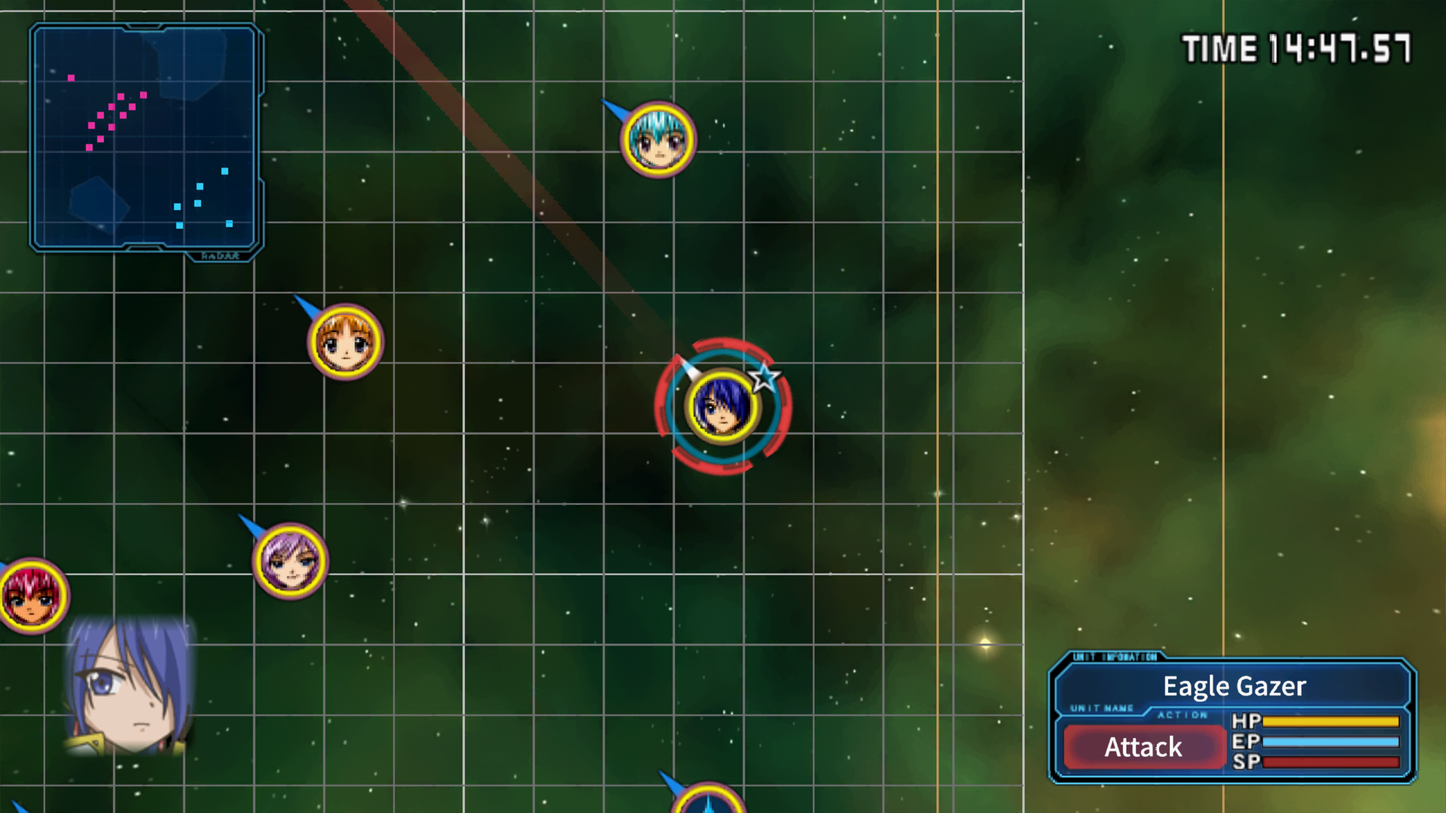
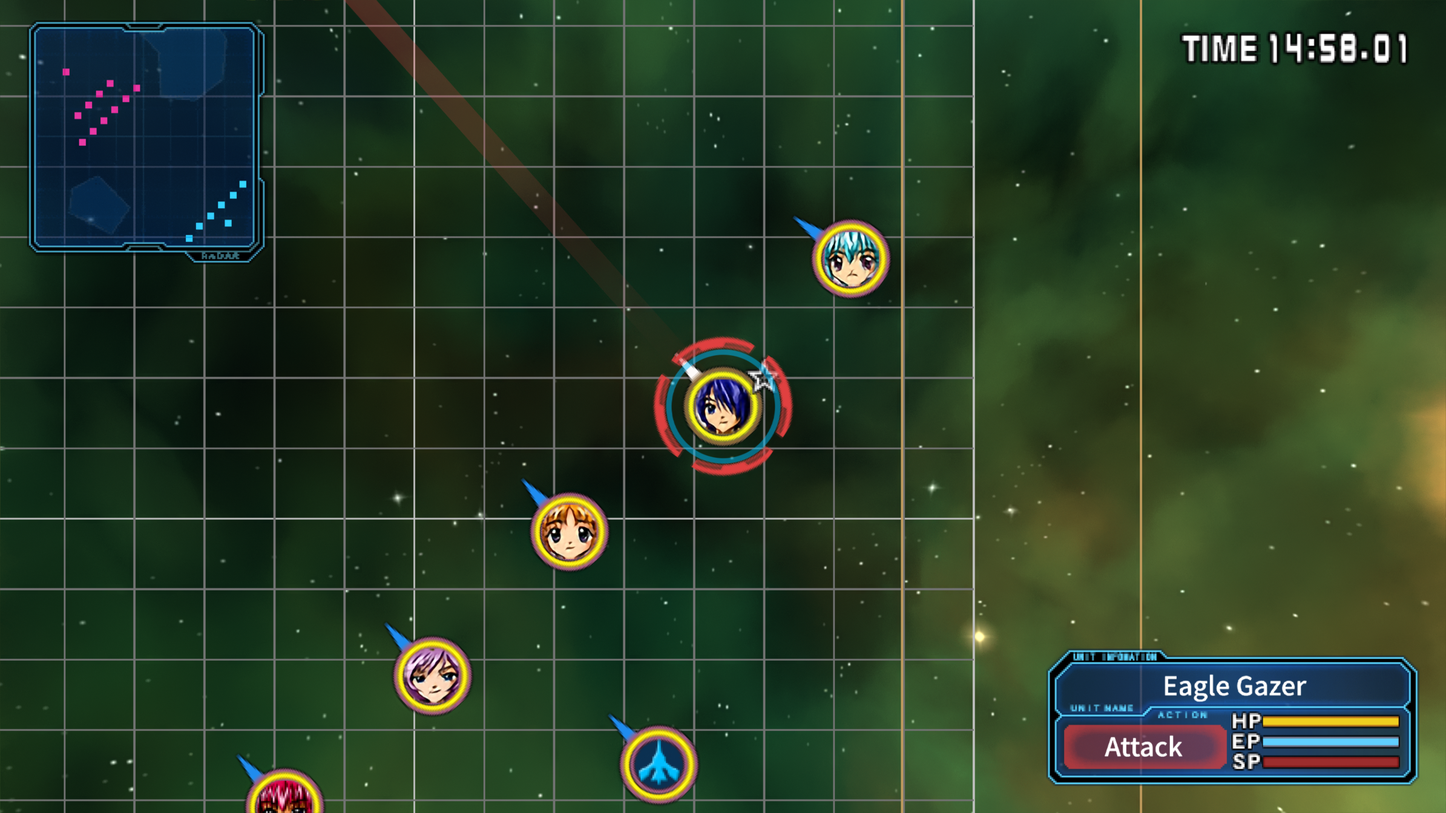
VR table: the HUD panels' layer holds the HUD alone; new screenshots; VR motion controls in the README
While the VR battle table is shown, the game's own unit markers and cursor ring are left out of its 2D
layer (marked by the objects the game places at each unit), so the radar and unit panels no longer get
holes where a unit passes under them. Screenshots retaken with the full-colour picture.

diff --git a/native/compat/ga2_battlepointer.cpp b/native/compat/ga2_battlepointer.cpp
@@ -48,6 +48,7 @@
 #include <cstring>
 #include <iostream>
 #include <string>
+#include <unordered_map>
 
 namespace
 {
@@ -332,6 +333,17 @@ namespace
         // Map units: the map plane is y = 0 in the same units as the camera
         // look-at point and the projector's x 0.001 (units are millimetres).
         return worldRay(view, setup.unitsPerMetre, origin, direction, ray);
+    }
+
+    // A 2D layer object's items: the vector at holder + 4 .. + 8 (an object placed by setPosition).
+    template <typename F>
+    void holderItems(const uint8_t *ram, uint32_t holder, F &&each)
+    {
+        const uint32_t first = word(ram, holder + 4u), last = word(ram, holder + 8u);
+        if (first >= 0x100000u && last <= 0x2000000u && last > first && last - first <= 64u * 4u)
+            for (uint32_t at = first; at < last; at += 4u)
+                if (const uint32_t item = word(ram, at); item >= 0x100000u && item < 0x2000000u)
+                    each(item);
     }
 
     template <size_t I>
@@ -1081,6 +1093,9 @@ namespace
         }
         // The HUD's pieces (ga2_hud.h), for the panels around the table.
         ga2_hud::captureAreas(true);
+        // The map's cursor ring (mapview + 0x14, its items at + 0x64 .. 0x68) is the map's: the table draws its own.
+        if (const uint32_t ring = word(ram, mapview + 0x14); ring >= 0x100000u && ring < 0x2000000u)
+            holderItems(ram, ring + 0x60u, [](uint32_t item) { ga2_hud::markMapItem(item); });
         {
             ga2_hud::Area areas[ga2_battletable::State::kMaxHud];
             st.hudCount = ga2_hud::areas(areas, ga2_battletable::State::kMaxHud);
@@ -2022,6 +2037,49 @@ namespace
         return n;
     }
 
+    // The game places each unit's map marker pieces (ring, frame, face, star, ...) with setPosition at the unit's own
+    // icon position (its fields at unit + sx): while the battle table is shown, those objects' items are the map's,
+    // not the HUD's (ga2_hud::markMapItem), and the game leaves them out of its picture (the table draws the units).
+    template <size_t I>
+    void setPositionHook(uint8_t *ram, R5900Context *ctx, PS2Runtime *runtime)
+    {
+        if (g_table.state.active && ga2_hud::capturing())
+        {
+            const Disc &D = kDiscs[I];
+            const uint32_t holder = GPR_U32(ctx, 4);
+            const float x = ctx->f[12], y = ctx->f[13];
+            const uint32_t mgr = word(ram, D.mgrGlobal);
+            const uint32_t last = !mgr ? 0u : D.countField ? word(ram, mgr + D.countField) : 0x4fu;
+            bool unit = false;
+            if (mgr && !(D.countField && int32_t(last) < 0))
+                for (uint32_t i = 0; i <= last && i < 0x100u && !unit; ++i)
+                {
+                    const uint32_t u = unitAt<I>(ram, mgr, i);
+                    unit = usable<I>(ram, u) && flt(ram, u + D.sx) == x && flt(ram, u + D.sx + 4) == y;
+                }
+            if (unit)
+                holderItems(ram, holder, [](uint32_t item) { ga2_hud::markMapItem(item); });
+            static const bool log = std::getenv("GA2_HUD_ITEMLOG") != nullptr;
+            if (log)
+            {
+                static std::unordered_map<uint32_t, int> seen;
+                if (seen.find(holder) == seen.end() || seen[holder] != int(unit))
+                {
+                    seen[holder] = int(unit);
+                    std::string items;
+                    holderItems(ram, holder, [&](uint32_t item) {
+                        char b[12];
+                        std::snprintf(b, sizeof(b), " %06x", item);
+                        items += b;
+                    });
+                    std::fprintf(stderr, "[hud place] ra=%06x holder=%06x x=%.1f y=%.1f unit=%d items:%s\n", GPR_U32(ctx, 31),
+                                 holder, x, y, int(unit), items.c_str());
+                }
+            }
+        }
+        g_original<I, SetPosition>(ram, ctx, runtime);
+    }
+
     template <size_t I>
     void bind(PS2Runtime &runtime)
     {
@@ -2047,6 +2105,7 @@ namespace
         hook(d.moveAll, g_original<I, MoveAll>, moveAll<I>);
         hook(d.moveOne, g_original<I, MoveOne>, moveOne<I>);
         g_original<I, SetPosition> = runtime.lookupFunction(d.setPosition); // called, not replaced
+        runtime.replaceFunction(d.setPosition, setPositionHook<I>); // the units' map markers (ga2_hud::markMapItem)
         g_original<I, Focus> = runtime.lookupFunction(d.focus);             // likewise
         hook(d.mapUpdate, g_original<I, MapUpdate>, mapUpdate<I>);
         hook(d.mapCamera, g_original<I, MapCamera>, mapCamera<I>);

diff --git a/native/compat/ga2_features.cpp b/native/compat/ga2_features.cpp
@@ -771,6 +771,14 @@ namespace
         return in;
     }
 
+    // Map items (ga2_hud::markMapItem): item -> the vblank it was last marked at; a mark lasts half a second.
+    std::unordered_map<uint32_t, uint64_t> g_mapItems;
+    bool isMapItem(uint32_t item)
+    {
+        const auto it = g_mapItems.find(item);
+        return it != g_mapItems.end() && ga2_activity::vsyncs.load(std::memory_order_relaxed) - it->second <= 30u;
+    }
+
     void captureItem(const uint8_t *rdram, uint32_t item, uint32_t kind)
     {
         const uint64_t frame = ga2_activity::vsyncs.load(std::memory_order_relaxed);
@@ -785,6 +793,8 @@ namespace
             g_lastAreas = std::move(done);
             g_lastItems = std::move(items);
         }
+        if (isMapItem(item))
+            return; // the map's (a unit's marker, the cursor ring), not the HUD's
         if (kind == 4u)
         {
             // A layout draws its children itself (not through this hook): each child's rectangle.
@@ -803,7 +813,7 @@ namespace
         Rect r;
         if (kind == 2u || !itemRect(rdram, item, r) || r.x1 - r.x0 < 4.0f || r.y1 - r.y0 < 4.0f)
             return;
-        if ((!g_centreItems.empty() && g_centreItems.count(item)) || onUnitIcon(r) || (r.x1 - r.x0 > 560.0f && r.y1 - r.y0 > 400.0f))
+        if ((!g_centreItems.empty() && g_centreItems.count(item)) || (r.x1 - r.x0 > 560.0f && r.y1 - r.y0 > 400.0f))
             return;
         const Anchor side = sideOf(r.x0, r.x1);
         if (ga2_activity::wideFrame())
@@ -819,7 +829,37 @@ namespace
     {
         g_rdram = rdram;
         if (g_capture.load(std::memory_order_relaxed))
-            captureItem(rdram, GPR_U32(ctx, 4), word(rdram, GPR_U32(ctx, 4) + 8));
+        {
+            const uint32_t item = GPR_U32(ctx, 4), kind = word(rdram, item + 8);
+            captureItem(rdram, item, kind);
+            // GA2_HUD_ITEMLOG=1 (diagnostics): every item drawn while the table captures (new ones and changes).
+            static const bool itemLog = std::getenv("GA2_HUD_ITEMLOG") != nullptr;
+            if (itemLog)
+            {
+                static std::unordered_map<uint32_t, std::string> seen;
+                Rect lr{};
+                const bool has = itemRect(rdram, item, lr);
+                char line[200];
+                std::snprintf(line, sizeof(line), "kind=%u rect=%d %.0f,%.0f-%.0f,%.0f cb=%06x f04=%08x f0c=%08x f28=%08x map=%d",
+                              kind, int(has), lr.x0, lr.y0, lr.x1, lr.y1, word(rdram, item + 0x78), word(rdram, item + 4),
+                              word(rdram, item + 0xc), word(rdram, item + 0x28), int(isMapItem(item)));
+                if (seen[item] != line)
+                {
+                    seen[item] = line;
+                    std::fprintf(stderr, "[hud item] v=%llu p=%06x %s\n",
+                                 (unsigned long long)ga2_activity::vsyncs.load(std::memory_order_relaxed), item, line);
+                }
+            }
+            // The map's own items (the units' marker pieces, the cursor ring: ga2_hud::markMapItem) are left out of
+            // the picture while the table is shown: it draws the units and the cursor itself, and the 2D layer the HUD
+            // panels are taken from then holds nothing but the HUD.
+            if (isMapItem(item))
+            {
+                SET_GPR_U32(ctx, 2, 0);
+                ctx->pc = GPR_U32(ctx, 31);
+                return;
+            }
+        }
         if (!ga2_activity::wideFrame())
         {
             g_original<I, ItemDraw>(rdram, ctx, runtime);
@@ -1069,6 +1109,16 @@ void ga2_hud::setUnitIcons(const float *xy, int count)
 void ga2_hud::keepCentred(uint32_t item)
 {
     g_centreItems.insert(item);
+}
+
+bool ga2_hud::capturing()
+{
+    return g_capture.load(std::memory_order_relaxed);
+}
+
+void ga2_hud::markMapItem(uint32_t item)
+{
+    g_mapItems[item] = ga2_activity::vsyncs.load(std::memory_order_relaxed);
 }
 
 void ga2_hud::captureAreas(bool on)

diff --git a/native/compat/ga2_hud.h b/native/compat/ga2_hud.h
@@ -36,6 +36,12 @@ namespace ga2_hud
     };
     constexpr int kMaxAreas = 8;
     void captureAreas(bool on);
+    bool capturing();
+    // A 2D layer item that belongs to the tactical map, not the HUD (a unit's marker piece, the cursor ring), by its
+    // pointer, marked by the battle pointer as the game places it: while capturing (the VR battle table, which draws
+    // the units and the cursor itself), the game does not draw it, so the 2D layer the HUD panels are taken from
+    // holds the HUD alone. A mark lasts a moment (items are reused).
+    void markMapItem(uint32_t item);
     // The last whole frame's areas; returns their count.
     int areas(Area *out, int max);
     // The last whole frame's items themselves (before merging; an area's panel shows only what lies inside them, not

diff --git a/README.ja.md b/README.ja.md
@@ -68,7 +68,9 @@ Vulkan 1.3 対応の GPU が必要です。0.11.0 からポータブル構成で
   「HD battle graphics」で Off にすると元の画像）。メニュー・ウィンドウ・HUD は元の
   ドットのまま、くっきり拡大（設定の「Menus and HUD」：Sharp pixels または Anime4K）。
 - チートメニュー（F1）とゲーム内設定メニュー（F2）。
-- OpenXR（SteamVR、Monado）による VR。ゲーム画面は大きなスクリーンに映り、
+- OpenXR（SteamVR、Monado）による VR。フルモーションコントロール対応：コントローラーで
+  指してトリガーでクリック（メニュー・選択肢・ストーリー）、戦闘は手で操作します。
+  ゲーム画面は大きなスクリーンに映り、
   3D シーンは周囲を立体視で包みます。戦闘は戦場の宇宙に浮かぶ、目の前の丸い
   ホログラムのバトルテーブルで操作します。テーブルにはゲーム本来の艦船モデルが並び、
   モーションコントロールで動かします（ユニットに手を重ねてトリガーで

diff --git a/README.md b/README.md
@@ -72,8 +72,10 @@ guide are in [docs/PLAYING.md](docs/PLAYING.md).
   Menus, windows and the HUD keep their original pixels, crisp (Settings >
   Menus and HUD: Sharp pixels, or Anime4K).
 - Cheats menu (F1) and an in-game settings menu (F2).
-- VR through OpenXR (SteamVR, Monado). The game is shown on a big screen,
-  and the 3D scenes are drawn in stereo around you. Battles are played
+- VR through OpenXR (SteamVR, Monado), with full motion controls: point at
+  anything with a controller and pull the trigger to click it (menus, choices,
+  the story), and play battles with your hands. The game is shown on a big
+  screen, and the 3D scenes are drawn in stereo around you. Battles are played
   on a round holographic battle table in front of you, inside the battle's
   own sky, with the game's own ship models standing on it, and motion controls: hold
   your hand over a unit and pull the trigger to select it, drag to a spot or

diff --git a/CHANGELOG.md b/CHANGELOG.md
@@ -37,7 +37,9 @@
     battle's own sky (the stage's sky rendered around you from your disc);
   - the HUD's pieces (radar, clock, unit panel) float on their own as
     holograms, drawn from the game's 2D layer alone, with no map behind them,
-    and the table is never cut;
+    and the table is never cut; the game's own unit markers are left out of
+    that layer while the table shows (the table draws the units), so a unit
+    passing under the radar or a unit panel no longer cuts a hole in it;
   - each unit's marker is its own icon from the game (the angel's face, the
     ship's silhouette), upscaled, on a disc drawn at any resolution with its
     shield as a ring and a heading arrow under the ship; markers are solid
